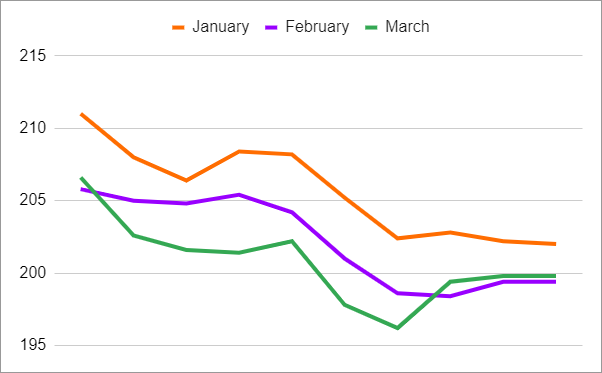
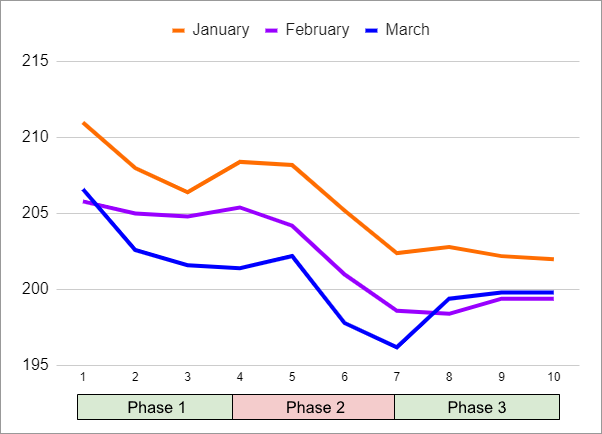
publish request

diff --git a/_sass/site/_post.scss b/_sass/site/_post.scss
@@ -47,6 +47,10 @@
   font-size: 12px;
 }
 
+.emphasis {
+  color: $primary;
+}
+
 blockquote {
   font-family: $font-family-serif;
   font-style: italic;

diff --git a/_posts/2023-03-22-The Fast Lane.md b/_posts/2023-03-22-The Fast Lane.md
@@ -10,7 +10,7 @@ The host discussed some of the mental and physical benefits he was experiencing,
 <!--preview-->
 
 # Short Background
-Fitness and health is a big topic and I don't claim to be an expert. I can only speak from personal experience. All the usual disclaimers apply - I'm not a doctor and any change to diet or exercise should be discussed with a medical professional or nutritionist.
+Fitness and health is a big topic and I don't claim to be an expert. I can only speak from personal experience. All the usual disclaimers apply - I'm not a doctor and any change to diet or exercise should be discussed with a medical professional.
 
 I turn 48 this year and like many others I've found it increasingly more difficult to maintain healthy habits with each passing year. Having been an athlete in high school my first few years of college were a real shock to my overall health. My college job was delivering Chinese takeout which gave me access to virtually limitless bad food which didn't help matters.
 
@@ -23,21 +23,23 @@ The most surprising thing on my first attempt was that I wasn't nearly as hungry
 
 Through this first experiment I learned some important lessons I'd carry through to a more robust plan in January.
 
-The first big mistake: I ate a huge amount of food on Sunday immediately prior to starting the fast. This was a bit of panic on my part assuming I'd be starving over the next few days so I better get as full as possible. This turned out to be a dumb thing to do, as future fasts taught me that eating a lot of calories the day the fast starts takes away some of the benefits and doesn't make you any less hungry by the second or third day.
+The first big mistake: I ate a huge amount of food on Sunday right before starting the fast. This was a bit of panic on my part assuming I'd be starving over the next few days so I better get as full as possible. This turned out to be a dumb thing to do, as future fasts taught me that eating a lot of calories the day the fast starts takes away some of the benefits and doesn't make you any less hungry by the second or third day.
 
-The next lesson was that eating a large meal coming out of the fast is not a good idea. I happened to be meeting my brother for our weekly happy hour and ordered a big sandwich with fries. About half way through the meal my stomach started hurting. By the end I realized I had eaten way too much food and was pretty disappointed in myself. It felt like much of the benefit was ruined by eating way too much just prior and immediately after the fast. I also drank a few beers which didn't sit well and I had a hard time sleeping that night.
+The next lesson was that eating a large meal coming out of the fast is not a good idea. I happened to be meeting my brother for our weekly happy hour and ordered a big sandwich with fries. About half way through the meal my stomach started hurting. By the end I realized I had eaten way too much food and was pretty disappointed in myself. It felt like much of the benefit was ruined by eating way too much just prior and immediately after the fast. I also drank a few beers which didn't sit well and I had a hard time sleeping that night as I felt sick to my stomach.
 
 # The "Fast Lane"
 I decided I needed to make some changes to the fast for a more lasting impact. I could already feel the benefits during the first attempt and wanted to take it further. I decided to expand the fast to include a pre-fast warmup and a post-fast cooldown. It was also important to create a program that I could replicate and continue with long-term. I call it **The Fast Lane**, and am currently on my fourth iteration.
 
 ## Overview
-The program is ten days of modified behavior repeated once per month. I decided on the following pattern and have not deviated from it thus far:
+The program is ten days of modified behavior broken into three phases repeated once per month. I decided on the following pattern and have not deviated from it thus far:
 
-* **Day 1-3**: The **On-Ramp** to the Fast Lane. This is an intermittent fast with strict rules. In the morning I have a multivitamin. Personally I like <a href="https://athleticgreens.com/" target="_blank">Athletic Greens</a> and have been taking it for a few years already. At noon I have a meal replacement shake - something with real calories, not necessarily a diet shake. I'm currently using <a href="https://www.kachava.com/" target="_blank">Ka'Chava</a> for this purpose. I eat a normal dinner, whatever that happens to be. If it's pizza night, I have pizza. The main goal is to be done eating by 6PM so I get a full 18 hour intermittent fast. I also track my water closely and aim for 120 ounces minimum during these days. No snacks allowed, no exceptions!
-* **Day 4**: The water-only fast starts on day 4. My last meal will generally end around 4PM. This makes it easier to get through this first portion and get to bed without eating anything else. In one iteration I stopped eating at noon which made it tougher on the first day as I went to bed feeling a little hungry.
-* **Day 5-6**: I still take my multivitamin each morning, but after that it's water only. I also allow black coffee during this part of the fast after reading several fasting recommendations that seem to universally agree that black coffee is fine to drink during a fast with little to no impact.
-* **Day 7**: I always wait a full 72 hours from the start - so if my last meal ended at 4PM on Day 4 I will eat my first meal at or after 4PM on day 7. It's important for this meal to be on the lighter side. My personal favorite has been Pho, which is basically noodle soup with veggies. I try keeping this first meal under 1000 calories and Pho fits the bill nicely. Even with a larger bowl Pho is generally less than 500 calories. It's also plenty of food - it's surprising how little food it takes to get full after three days of fasting.
-* **Day 8-10**: The **Off-Ramp** from the Fast Lane. The same as days 1-3, intermittent fast with a strict set of rules. Vitamins in the morning, shake for lunch, normal dinner. No snacks allowed, no exceptions!
+* **Day 1-3**: The **On-Ramp (Phase 1)**: This is an intermittent fast with strict rules. In the morning I have a multivitamin. Personally, I like <a href="https://athleticgreens.com/" target="_blank">Athletic Greens</a> and have been taking it for a few years already. At noon I have a meal replacement shake - something with real calories, not necessarily a diet shake. I'm currently using <a href="https://www.kachava.com/" target="_blank">Ka'Chava</a> for this purpose, adding some almond milk and a banana which comes in around 450 total calories. I eat a normal dinner, whatever that happens to be. If it's pizza night, I have pizza. The main goal is to be done eating by 6PM so I get a full 18 hour intermittent fast. No snacks allowed, no exceptions!
+* **Day 4**: The water-only fast starts on day 4 and marks the start of **Phase 2**. My last meal will generally end around 4PM. This makes it easier to get through this first portion and get to bed without eating anything else. In one iteration I stopped eating at noon which made it tougher on the first day as I went to bed feeling a little hungry.
+* **Day 5-6**: **Phase 2 continues** - I still take my multivitamin each morning, but after that it's water only. I also allow black coffee during this part of the fast after reading several fasting recommendations that seem to universally agree that black coffee is fine to drink during a fast with little to no impact.
+* **Day 7**: I always wait a full 72 hours from the start - so if my last meal ended at 4PM on Day 4 I will eat my first meal at or after 4PM on day 7. This marks the end of **Phase 2**. It's important for this meal to be on the lighter side. My personal favorite has been Pho, which is basically noodle soup with veggies. I try keeping this first meal under 1000 calories and Pho fits the bill nicely. Even with a larger bowl Pho is generally less than 500 calories. It's also plenty of food - it's surprising how little food it takes to get full after three days of fasting.
+* **Day 8-10**: The **Off-Ramp (Phase 3)** - The same as days 1-3, intermittent fast with a strict set of rules. Vitamins in the morning, shake for lunch, normal dinner. No snacks allowed, no exceptions!
+
+I try drinking at least 120 ounces of water every day throughout the 10 day cycle. This is more than the average person needs - and mostly acts to keep my stomach full as well as flush out my system. There are <a href="https://www.umsystem.edu/totalrewards/wellness/how-to-calculate-how-much-water-you-should-drink" target="_blank">plenty of web sites</a> that can help you determine how much water you need based on your size and level of activity.
 
 I also have a **no alcohol policy** during these ten days. The overall strategy is to maximize the benefits of the fast with a focused set of rules. This allows a lot of freedom during the two-thirds of the month I'm not fasting, effectively I do whatever I want.
 
@@ -46,13 +48,18 @@ I also have a **no alcohol policy** during these ten days. The overall strategy 
 </div>
 
 ## Exercise
-I have retained my normal exercise routine - aiming at a minimum of three to four workouts every week. These are generally pretty light - 30 to 40 minutes of cardio or weights. It was surprising, but I have worked out on non-food days and haven't had trouble with intensity or energy.
+After experimenting with a lighter workload during the first fast (mostly stretching and yoga), I now retain my normal exercise routine - aiming at a minimum of three to four workouts every week. These are still generally pretty light - 30 to 40 minutes of cardio or weights. It was surprising, but I have worked out on non-food days and haven't had trouble with intensity or energy.
+
+## Stay Busy
+I've found it's best to have some kind of project to work on, specifically during the water fast phase. During my January fast, I painted my wife's office - a project that took two days and kept my mind on something other than not eating.
+
+Stay away from anything that is a trigger for snacking. If you snack while watching TV, try to avoid TV as much as you can. Keep your mind on the goal and remind yourself how amazing the food will be in a short few days. Once I got through it a second time I realized it actually isn't that long to commit to a modified lifestyle.
 
 # Impact and Benefits
 The impact has blown away my expectations. I imagined I would lose weight and feel better by cutting the alcohol for a third of every month and eating less bad food, but there have been other unexpected side effects which have a genuinely addictive quality to them.
 
 ## Mental Clarity
-During the fast my mental clarity is definitely better. I tend to be at my most creative during the pure fast days. I think this is probably a combination of the fast itself and generally not needing any time or thought put towards food. The On Ramp is a good accelerator - by the time the real fast starts I've already had 3+ days of completely clean eating, no alcohol, better sleep, and caloric deficit making me feel less sluggish.
+During the fast my mental clarity is definitely better. I tend to be at my most creative during the pure fast days. I think this is probably a combination of the fast itself and generally not needing any time or thought put towards food. The On Ramp is a good accelerator - by the time the real fast starts I've already had 3+ days of calorie restriction with an 18 hour intermittent fast per day, no alcohol, and improved sleep.
 
 ## Understanding Hunger
 I've discovered the phrase "I'm hungry" or even worse "I'm starving" are at best exaggerations and at worst just lying to ourselves to justify eating whatever is put in front of us. On day seven as I start looking forward to that first meal I finally understand what real hunger feels like.
@@ -69,14 +76,14 @@ As we get older and more financially secure (hopefully), the fact is we can effe
 By the third day of the fast even a basic salad starts to sound like the most glorious thing you can imagine. A simple piece of fruit is so delicious it's like a desert. And those aforementioned favorite meals reach new levels of awesome.
 
 ## Trailing Effect & New Mindset
-With the monthly consistency of the fast there is a nice trailing effect. It takes less food to get full. If you enjoy a drink now and then, alcohol has a bigger impact. For me this means I can enjoy a drink but limits how much I can drink compared to the period before the fast.
+With the monthly consistency of the fast there is a nice trailing effect. It takes less food to get full. If you enjoy a drink now and then, alcohol has a bigger impact. For me this means I can enjoy a drink but limits how much I want to drink compared to the period before the fast.
 
 Overall the extreme caloric restriction and lack of alcohol causes a natural reduction coming out of the fast that can last for, well, however long I want it to. I'll often go extra days on intermittent fasting and will continue limiting snacks or alcohol because I'm feeling so good.
 
-Additionally I have a new mindset around the psychology and habitual side of eating. Before I started fasting I had breakfast every morning, lunch every afternoon, etc. Once I realized that skipping a meal or two has virtually no impact on my well-being, it became a lot easier to let those things go and not obsess about what's for lunch. Once you've gone 3 full days without eating it's pretty easy to go a half day when the timing makes sense.
+Additionally, I have a new mindset around the psychology and habitual side of eating. Before I started fasting I had breakfast every morning, lunch every afternoon, etc. Once I realized that skipping a meal or two has virtually no impact on my well-being, it became a lot easier to let those things go and not obsess about what's for lunch. Once you've gone 3 full days without eating it's pretty easy to go a half day when the timing makes sense.
 
 ## Weight Loss
-This is probably the category people care about the most. And yes, while all the benefits above are amazing, being able to lose weight consistently and retain most of it is a great benefit to the program.
+This is probably the category people care about the most. And yes, while all the benefits above are amazing, being able to lose weight consistently and retain most of it is a great tangible benefit to the program.
 
 The first thing to know is much of the weight loss is superficial. Switching to mostly water and less food (especially less sodium) means a lot of retained water is going to shed quickly. In an average 30-day cycle I tend to lose 8-10 pounds during the fast and gain about half of it back. One one occasion I gained all of it back. Much of this is likely water fluctuation, but I can honestly say much of the weight coming back is due to overeating in the period between fasts.
 
@@ -88,18 +95,18 @@ That being said, after three cycles (January, February, March) I have twelve pou
 <br/>
 I only track my weight during the 10 day fast cycle. This is what it looks like for January, February, and March of 2023. I'll talk more below about the time between fasts and the importance of keeping in check - but you can see from this graph that I actually started the March fast heavier than I started the February fast. This was almost entirely due to the bad eating I did in between.
 
-You can also see the significant drop each time for the three day water fast followed by immediate gain once hitting the Off Ramp and eating more normally.
+You can also see the significant drop each time for the three day water fast (Phase 2) followed by immediate leveling off and even some gain once hitting the Off Ramp (Phase 3). This data will be more valuable once I've got a full year to throw into a graph but there is no doubt the trend is downward.
 
 # Caloric Restriction
 The permanent weight loss is naturally due to eating less calories while continuing to exercise. This is fundamental to most diet plans but in this case it's especially obvious.
 
-I generally average around 3,000 calories per day when eating normally, amounting to 90,000 total per month. During the On Ramp and Off Ramp days I take in less than half that, around 1,200 per day. And of course zero calories on the fast days.
+I generally average around 3,000 calories per day when eating normally, amounting to 90,000 total per month. During the On Ramp and Off Ramp days I take in less than half that, around 1,200 per day. And, of course, zero calories on the fast days.
 
-Overall the ten day cycle reduces my calories by around 20,000 for that period, dropping my overall monthly caloric intake by 22% to 70,000 calories.
+Overall, the ten day cycle reduces my calories by around 20,000 for that period, dropping my overall monthly caloric intake by 22% to 70,000 calories.
 
 A pound of body fat contains 3,500 calories so this deficit tilts weight loss in my favor by about 5.7 pounds per month. Of course the weight loss isn't purely from burning fat, but the math checks out given that I'm averaging about 4 pounds of permanent weight loss per month so far
 
 # Between Fasts
-For me, this is the next big challenge. Behavior and eating habits while between fasts is critical, and can be demoralizing if not kept under control. Who wants to go through the work of such extreme calorie restriction only to lose all the good progress by giving in to terrible habits?
+For me, permanently altering behaviors between fasts is the next big challenge. Eating and other nutritional + fitness habits while between fasts is critical, and can be demoralizing if not kept under control. Who wants to go through the work of such extreme calorie restriction only to lose all the good progress by giving in to terrible habits?
 
-In a followup post I'll discuss a recent trip I took to Las Vegas - a place that is notoriously difficult if not impossible to eat healthy. I was there for two full weeks immediately after the March fast and miraculously didn't gain a pound. It frankly wasn't all that hard to stick to a modified routine that set me up for success especially with how much I am learning how to not eat.
+In a followup post I'll discuss a recent trip I took to Las Vegas - a place that is notoriously difficult to eat healthy. I was there for two full weeks immediately after the March fast and miraculously didn't gain a pound. It frankly wasn't all that hard to stick to a modified routine that set me up for success especially with how much I am learning how to eat (and not to eat).
